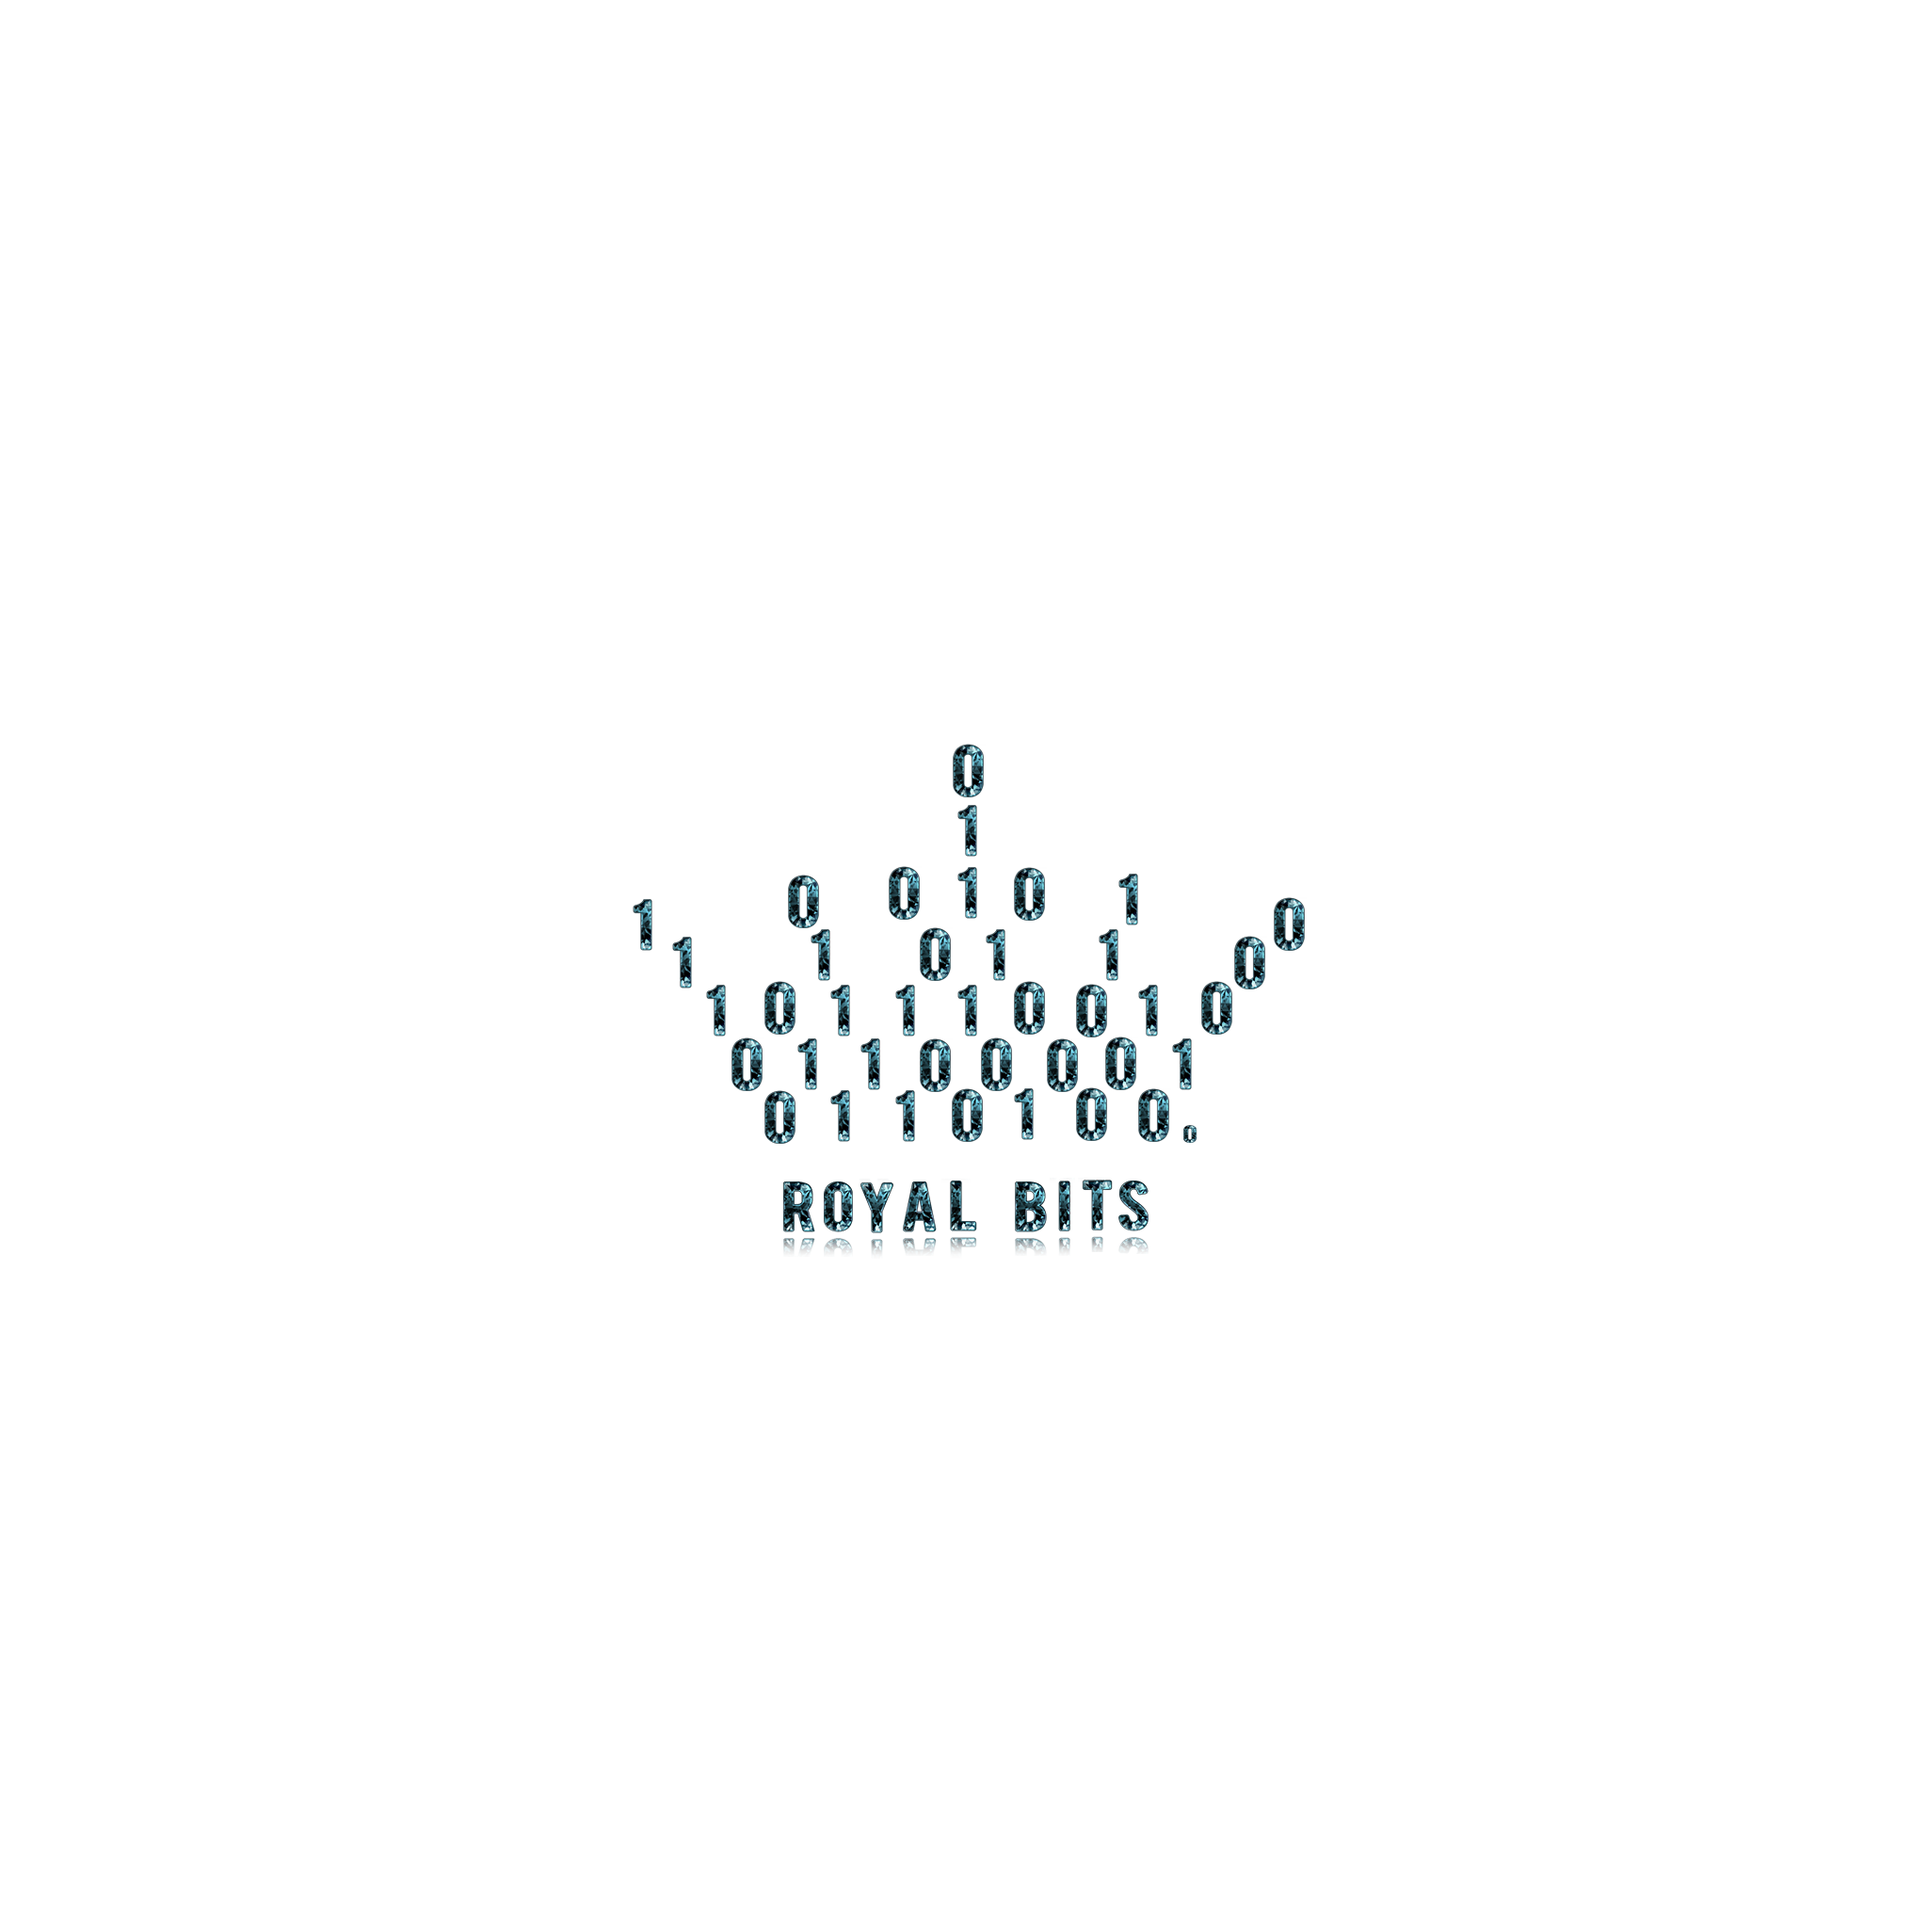
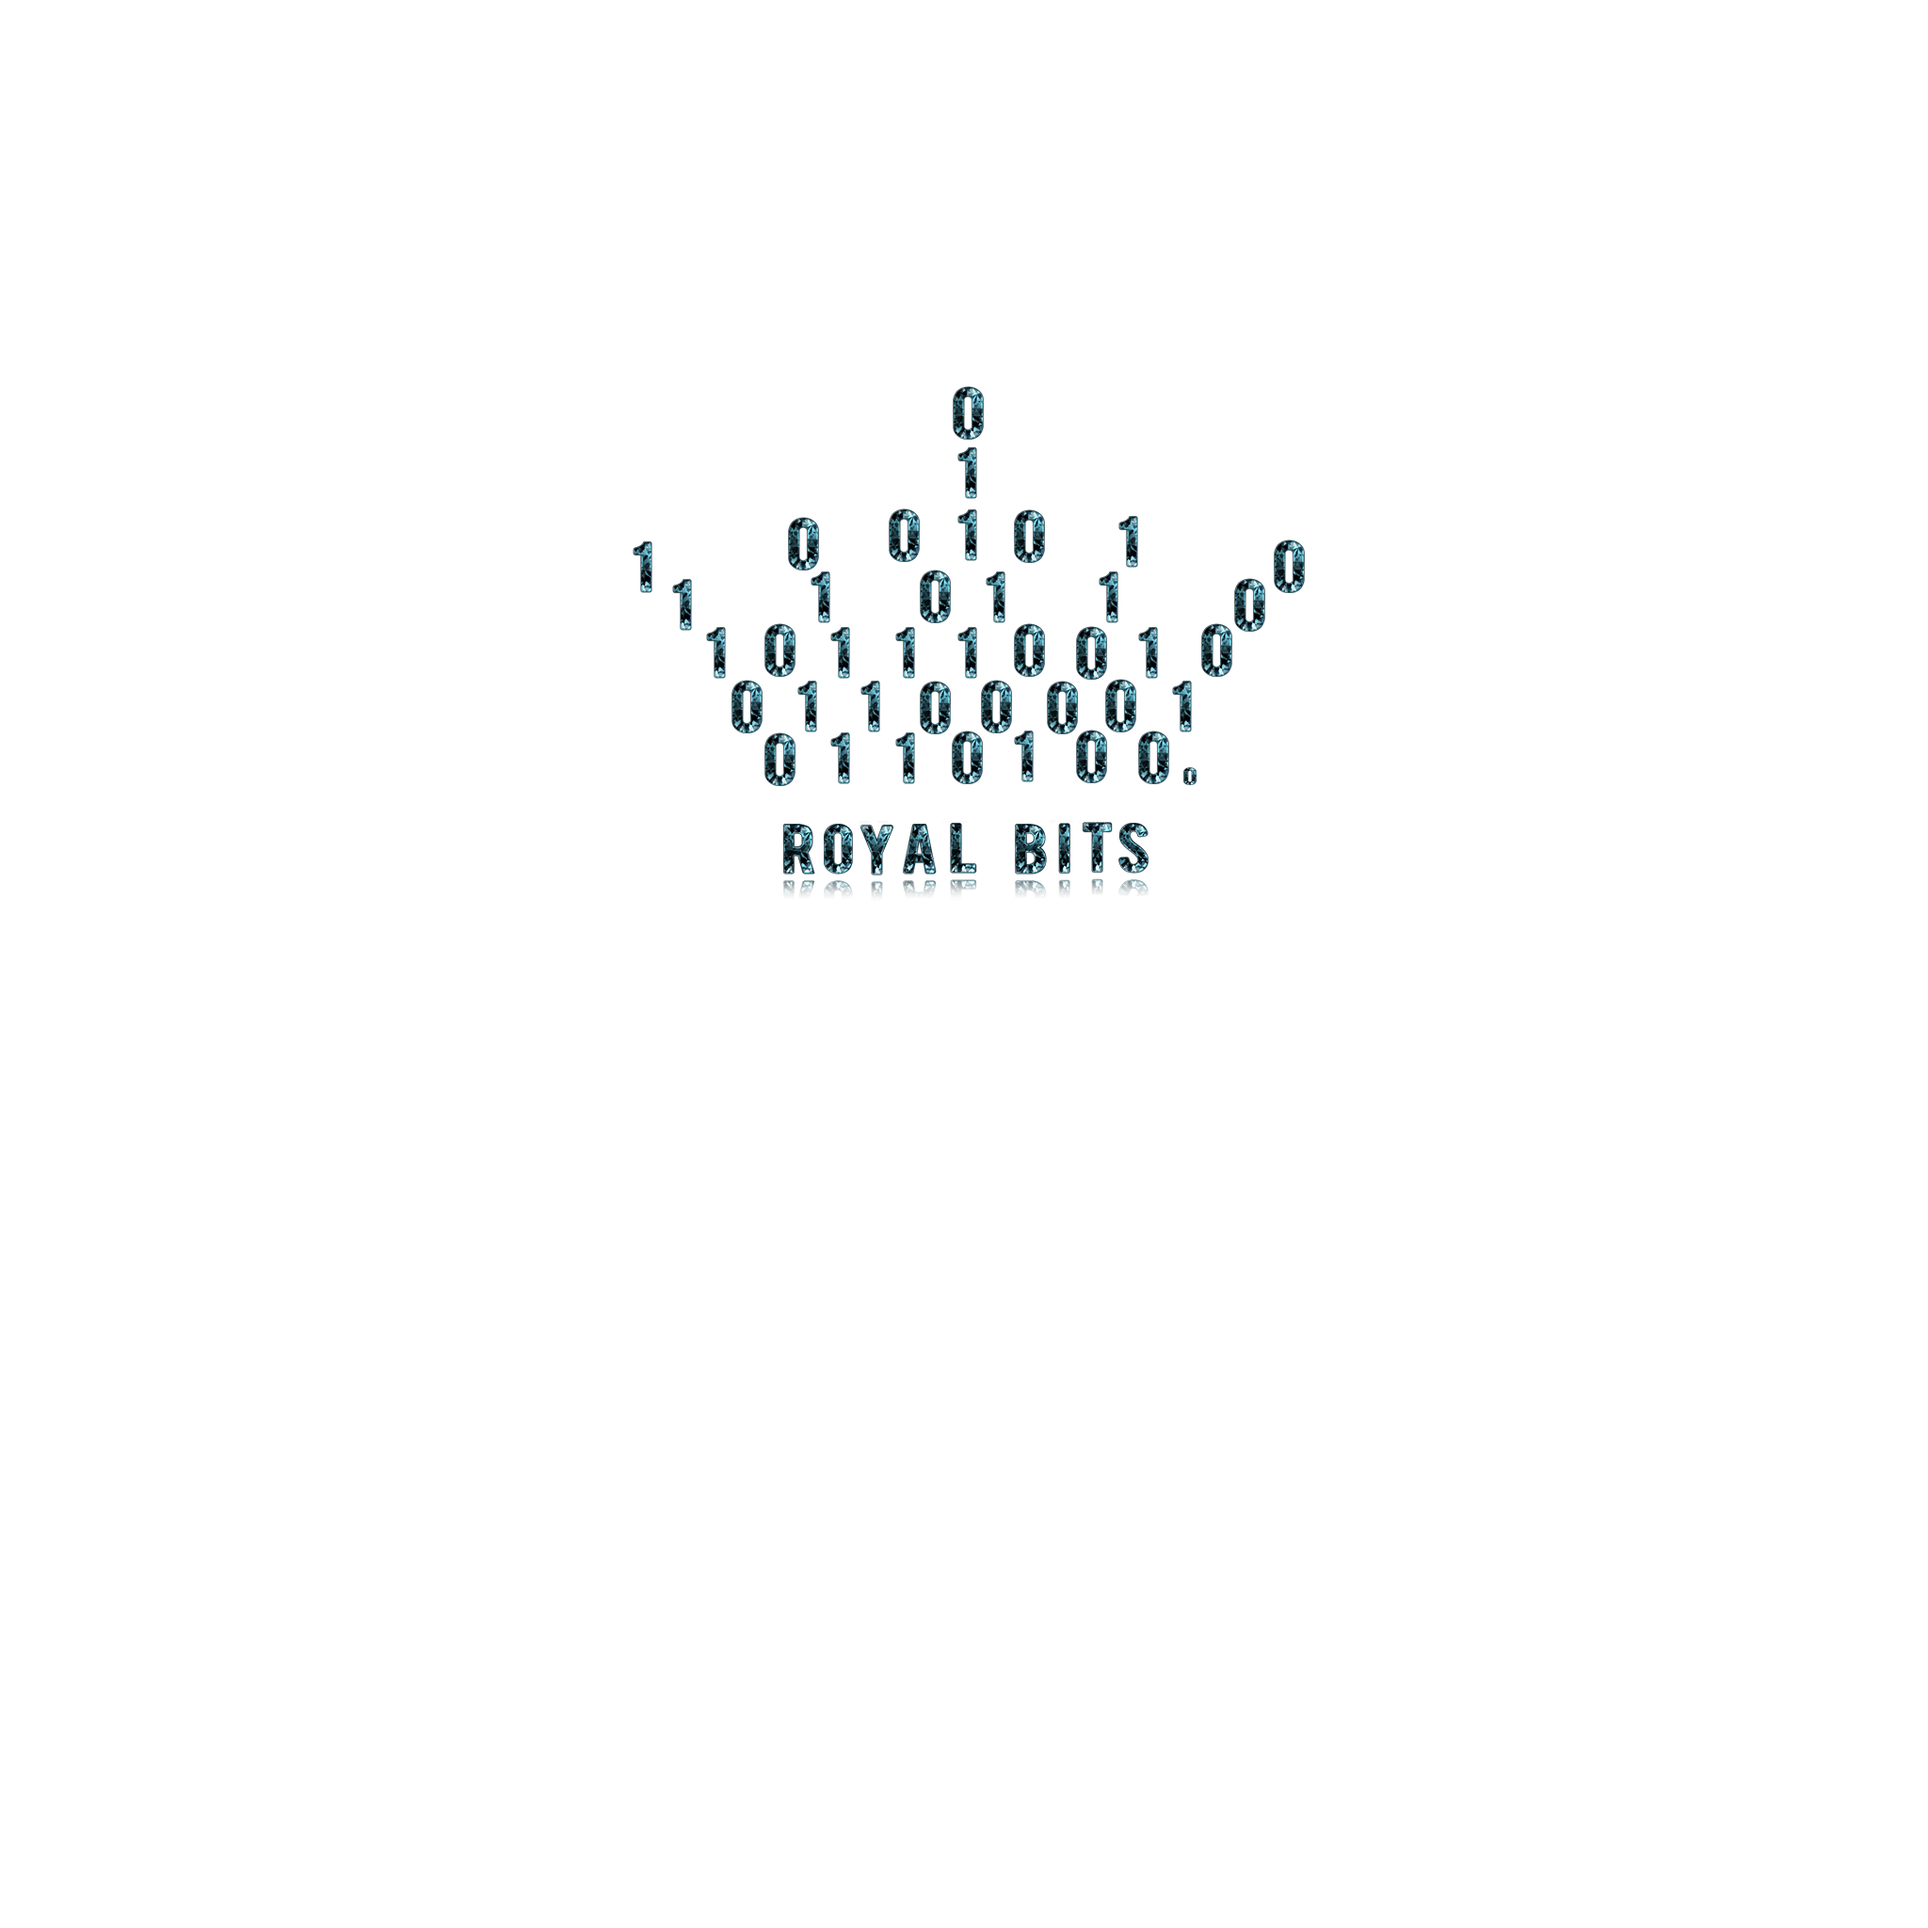
no message

Changed region(s): [[0.3125, 0.1875, 0.6875, 0.6562], [0.3125, 0.2812, 0.3438, 0.3125]]

diff --git a/index.html b/index.html
@@ -32,192 +32,6 @@
 	    </div>
 	</div>
 
-	<div class="layout">
-		<div class="container">
-			<div class="main">
-				<div class="overlay">
-
-					<div class="title">
-						<h1>Royal Bits</h1>
-					</div>
-
-					<div class="slogan">
-						Our new site is almost ready for launch.<br/>
-					</div>
-
-					<div class="more-links">
-						<a href="#" data-modal="about" data-toggle="tooltip" data-placement="top" title="About Us"><i class="fa fa-info"></i></a>
-						<!-- <a href="#" data-modal="contact" data-toggle="contact tooltip" data-placement="top" title="Contact Us"><i class="fa fa-envelope-o"></i></a> -->
-						<!-- <a href="#" data-modal="subscribe" data-toggle="tooltip" data-placement="top" title="Subscribe Us Now"><i class="fa fa-rss"></i></a> -->
-					</div>
-
-					<div class="row text-center">
-                
-                    <div class="col-sm-6 col-lg-3 service-item">
-                        <div>
-                            <i class="fa fa-5x fa-gamepad"></i>
-                        </div>
-                        <div>
-                            <h3 class="section-color-1">GAME</h3>
-                            <p class="section-color-1">
-                                Development
-                            </p>
-                        </div>
-                    </div>
-                
-                    <div class="col-sm-6 col-lg-3 service-item">
-                        <div>
-                            <i class="fa fa-5x fa-code"></i>
-                        </div>
-                        <div>
-                            <h3 class="section-color-1">WEB</h3>
-                            <p class="section-color-1">
-                                Development
-                            </p>
-                        </div>
-                    </div>
-                
-                    <div class="col-sm-6 col-lg-3 service-item">
-                        <div>
-                            <i class="fa fa-5x fa-android"></i>
-                        </div>
-                        <div>
-                            <h3 class="section-color-1">ANDROID</h3>
-                            <p class="section-color-1">
-                                Development
-                            </p>
-                        </div>
-                    </div>
-                
-                    <div class="col-sm-6 col-lg-3 service-item">
-                        <div>
-                            <i class="fa fa-5x fa-apple"></i>
-                        </div>
-                        <div>
-                            <h3 class="section-color-1">iOS</h3>
-                            <p class="section-color-1">
-                                Development
-                            </p>
-                        </div>
-                    </div>
-                    
-                </div>
-					
-					<!-- Your date here -->
-					<!-- <div class="countdown-time animated bounceIn" data-date="2015-01-01 00:00:00" data-timer="900"></div> -->
-
-					<div class="social">
-						<ul class="list-inline">
-							<li><a href="http://fb.com/RoyalBits" data-toggle="tooltip" data-placement="top" title="Facebook"><i class="fa fa-facebook"></i></a></li>
-							<li><a href="http://twitter.com/Royal_Bits" data-toggle="tooltip" data-placement="top" title="Twitter"><i class="fa fa-twitter"></i></a></li>
-						</ul>
-					</div>
-
-				</div><!-- /.overlay -->
-			</div><!-- /.main -->
-		</div><!-- /.container -->
-
-		<!--<div id="contact" class="new-modal">
-			<div class="container">
-				<div class="main">
-
-					<div class="close">
-						<a href="#" class="modal-close"><i class="fa fa-times"></i></a>
-					</div>
-
-					<div class="title">
-						<h2>Contact Us</h2>
-					</div>
-
-					<div class="slogan">
-						<p>...</p>
-					</div>
-
-					<div class="forms">
-						<form>
-							<div class="form-group">
-								<label class="sr-only" for="name">Your name</label>
-								<input type="text" class="form-control" id="name" placeholder="Name" required="required">
-							</div>
-							<div class="form-group">
-								<label class="sr-only" for="email">Email address</label>
-								<input type="email" class="form-control" id="email" placeholder="Email" required="required">
-							</div>
-							<div class="form-group">
-								<textarea class="form-control" id="message" placeholder="Message" rows="3" required="required"></textarea>
-							</div>
-							<button type="submit" class="btn btn-success">Submit</button>
-						</form>
-					</div>
-
-				</div>
-			</div>
-		</div> /#contact -->
-
-		<div id="about" class="new-modal">
-			<div class="container">
-				<div class="main">
-
-					<div class="close">
-						<a href="#" class="modal-close"><i class="fa fa-times"></i></a>
-					</div>
-
-					<div class="title">
-						<h2>About Us</h2>
-					</div>
-
-					<div class="row">
-						<div class="col-md-12">
-							<address>
-								<strong>Royal Bits, Inc.</strong><br>
-								Royal Bits Computing Laboratory<br>
-							</address>
-						</div>
-						
-						<div class="col-md-12">
-							<address>
-								<strong>Emrah SARI</strong><br>
-								Royal Bits Chief Executive Officer <br>
-								<a href="mailto:#">emrah@royalbits.com</a>
-							</address>
-						</div>
-					</div>
-
-				</div>
-			</div>
-		</div><!-- /#about -->
-
-		<!--<div id="subscribe" class="new-modal">
-			<div class="container">
-				<div class="main">
-
-					<div class="close">
-						<a href="#" class="modal-close"><i class="fa fa-times"></i></a>
-					</div>
-
-					<div class="title">
-						<h2>Subscribe Us Now</h2>
-					</div>
-
-					<div class="slogan">
-						<p>...</p>
-					</div>
-
-					<div class="forms">
-						<form>
-							<div class="form-group">
-								<input type="text" class="form-control" id="subscribe-email" placeholder="Enter email" required="required">
-								<button class="btn btn-success" type="submit">Notify me</button> 
-							</div>     	
-						</form>
-					</div>
-
-				</div>
-			</div>
-		</div> /#subscribe -->
-	</div><!-- /.layout -->
-
-
    	<!-- Javascript files -->
    	<!-- jQuery -->
    	<script src="//cdnjs.cloudflare.com/ajax/libs/jquery/1.11.0/jquery.min.js"></script>

diff --git a/assets/css/style.css b/assets/css/style.css
@@ -9,7 +9,7 @@ html, body {
 }
 
 body {
-	background: #1a2630;
+	background: #ffffff;
 	color: #fff;
 	font-family: 'Roboto Slab', serif;
 	font-size: 16px;
@@ -22,11 +22,11 @@ a {
 /* General styles
 -------------------------------------------------*/
 
-.vegas-background { opacity: .6; }
-.vegas-overlay { opacity: .6; }
+.vegas-background { opacity: 1; }
+.vegas-overlay { opacity: 0; }
 
 #preloader {
-	background-color: #1a2630;
+	background-color: #ffffff;
 	bottom: 0;
 	left: 0;
 	position: fixed;
